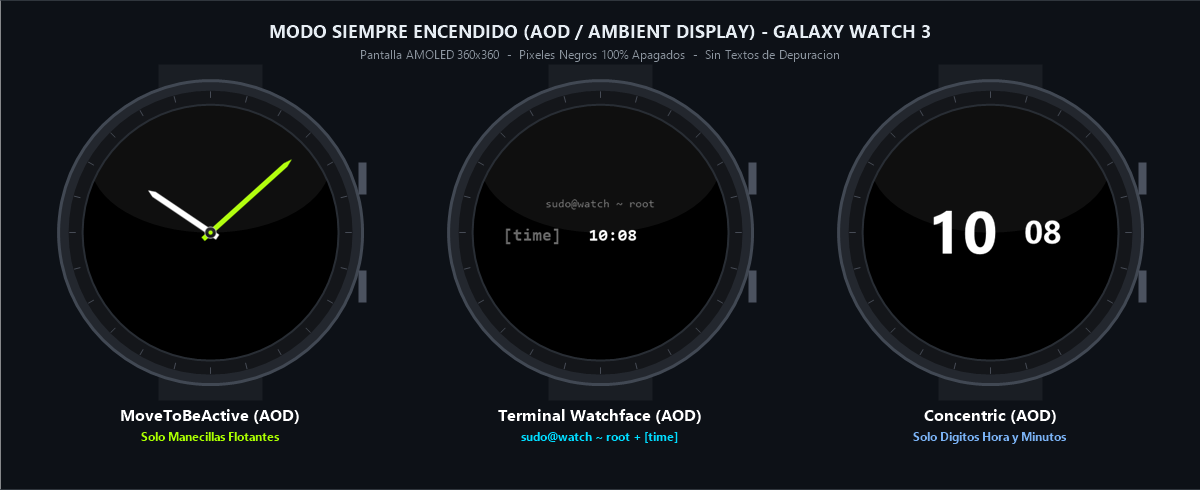
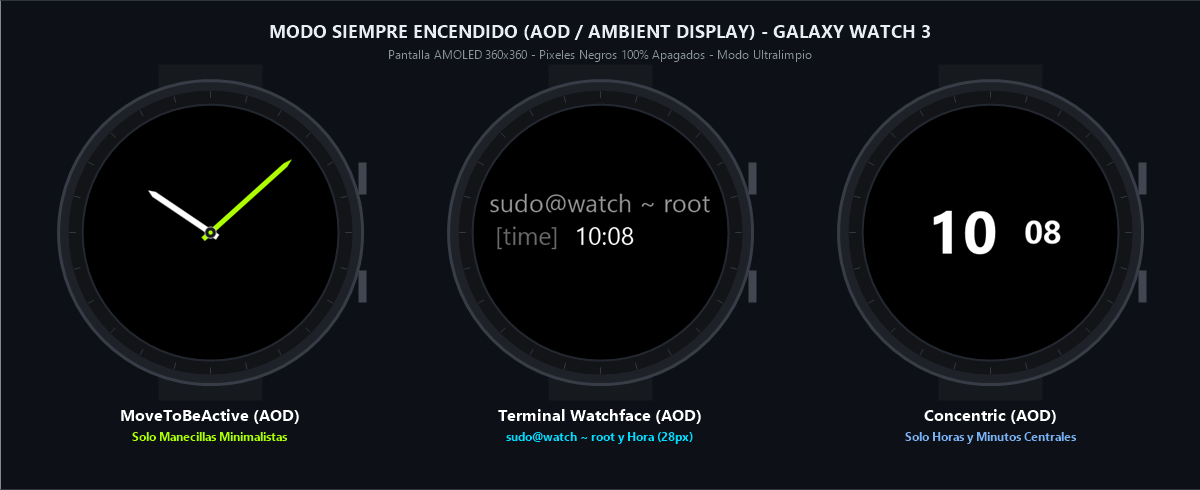
style(terminal): Configurar tipografia uniforme de 28px para prompt y hora en modo AOD

diff --git a/README.md b/README.md
@@ -55,7 +55,7 @@ Diseño ultralimpio sobre fondo negro puro AMOLED (`#000000`) con píxeles físi
   - `[batt]` — Nivel y estado de batería en % (abre Estado de Batería).
   - `[temp]` — Temperatura meteorológica actual (abre Clima).
   - `[hr]  ` — Frecuencia cardíaca en tiempo real (abre Ritmo Cardíaco).
-- **AOD (Always-On Display):** Modo minimalista centrado con únicamente `sudo@watch ~ root` y la hora (`[time]`).
+- **AOD (Always-On Display):** Modo minimalista centrado con únicamente `sudo@watch ~ root` y la hora (`[time]`) en tipografía uniforme de 28 px.
 
 ---
 
